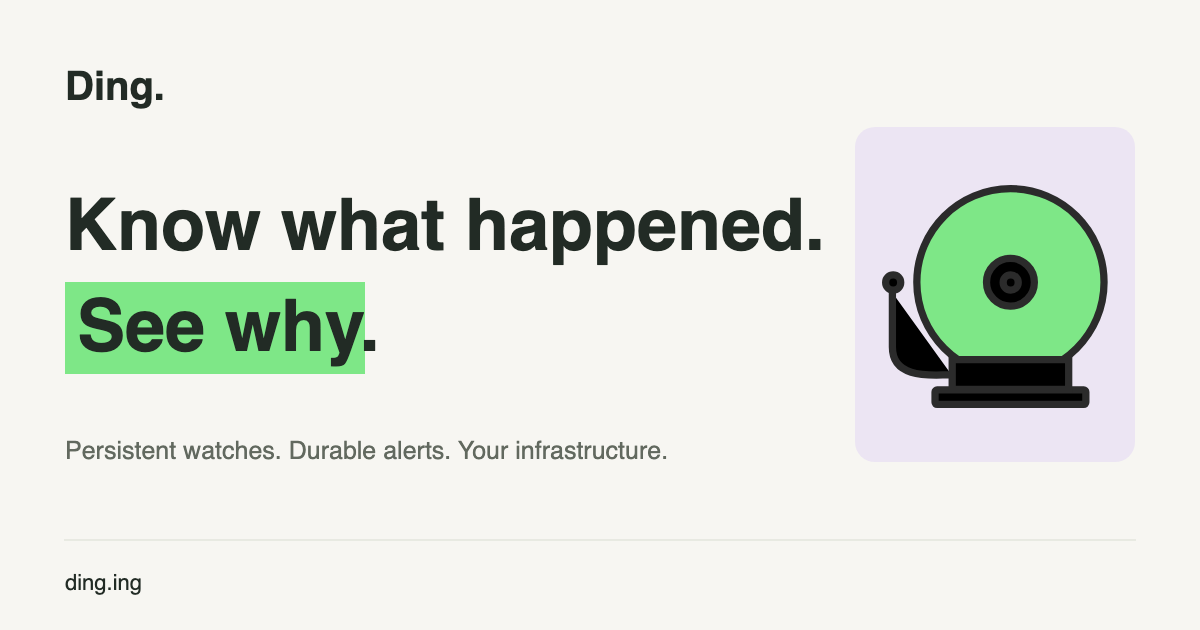
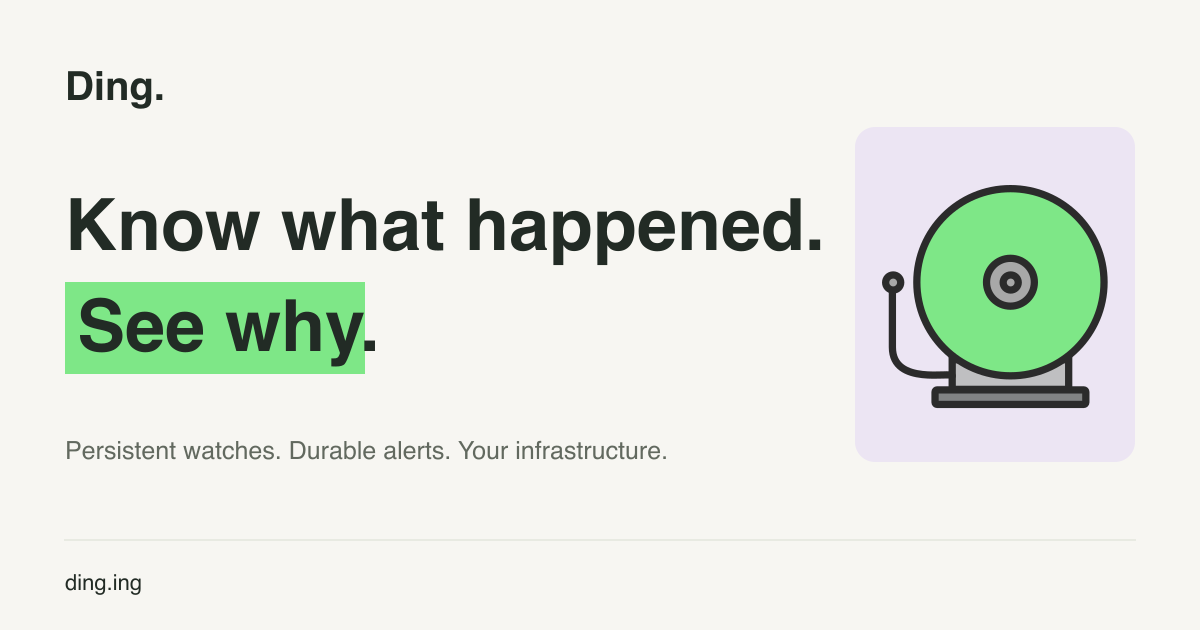
fix(brand): regenerate social artwork from the official mark

diff --git a/docs/releases/v0.15.2.md b/docs/releases/v0.15.2.md
@@ -1,7 +1,11 @@
 # Ding 0.15.2
 
 macOS notification banners and System Settings now use Ding's green bell instead
-of the generic application icon. The helper includes native icon sizes generated
+of the generic application icon. All product surfaces use the official artwork:
+the full green circle sits in front of the gray mounting base. The website, docs,
+Console, MCP interface, plugin icons, and social artwork share this corrected mark.
+
+The helper includes native icon sizes generated
 from the same artwork as Ding Console, and registers its current bundle metadata
 when the CLI starts it. Its bundle version now follows the Ding release.
 
